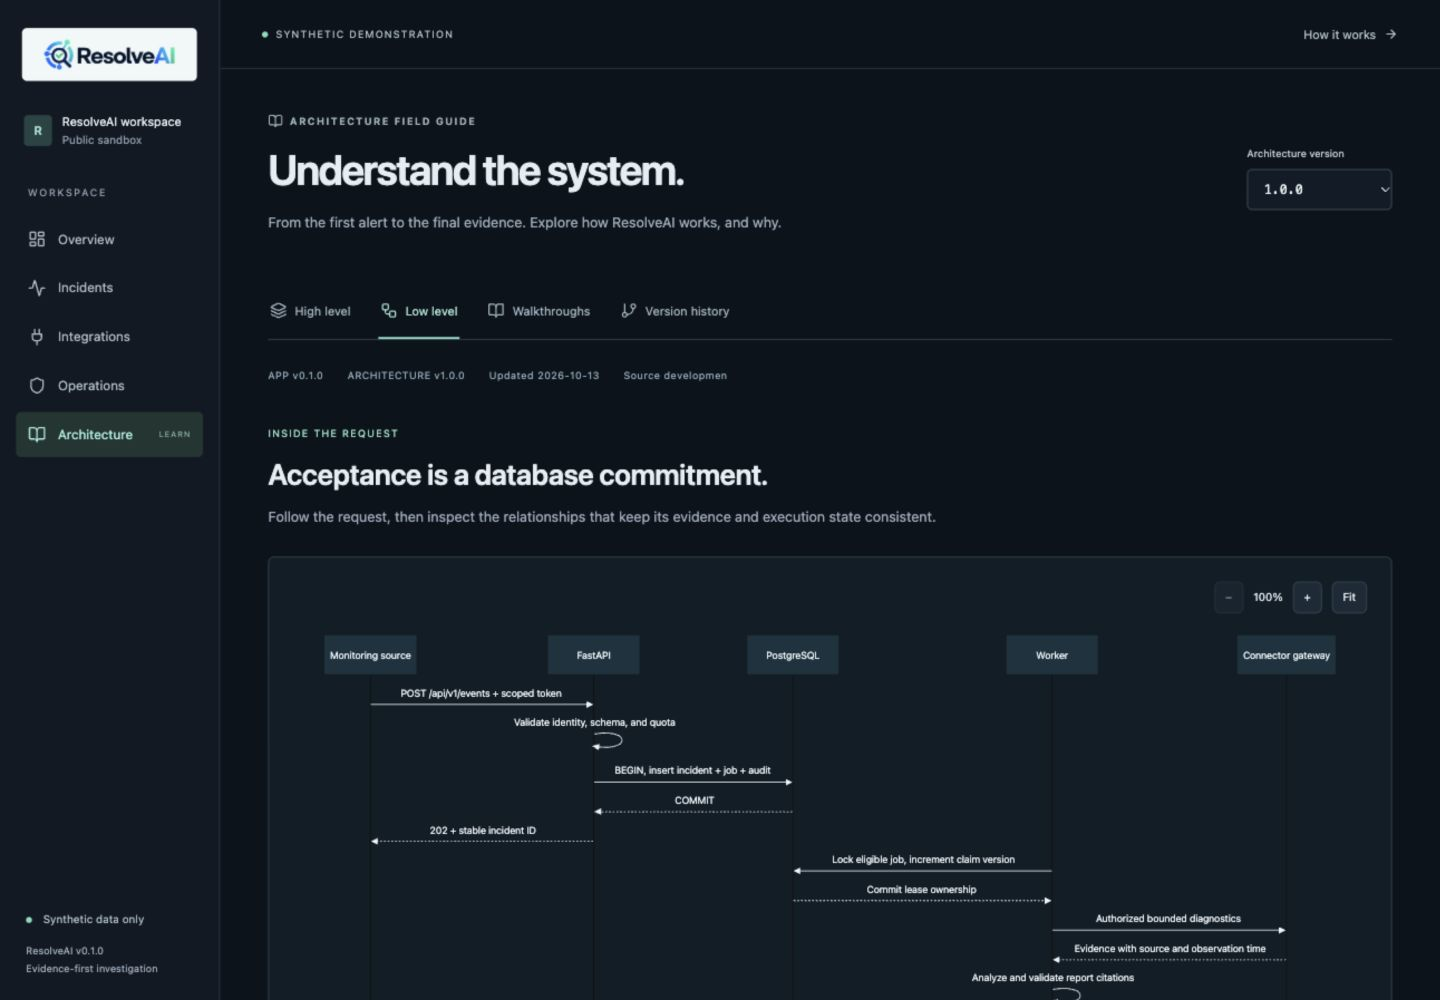
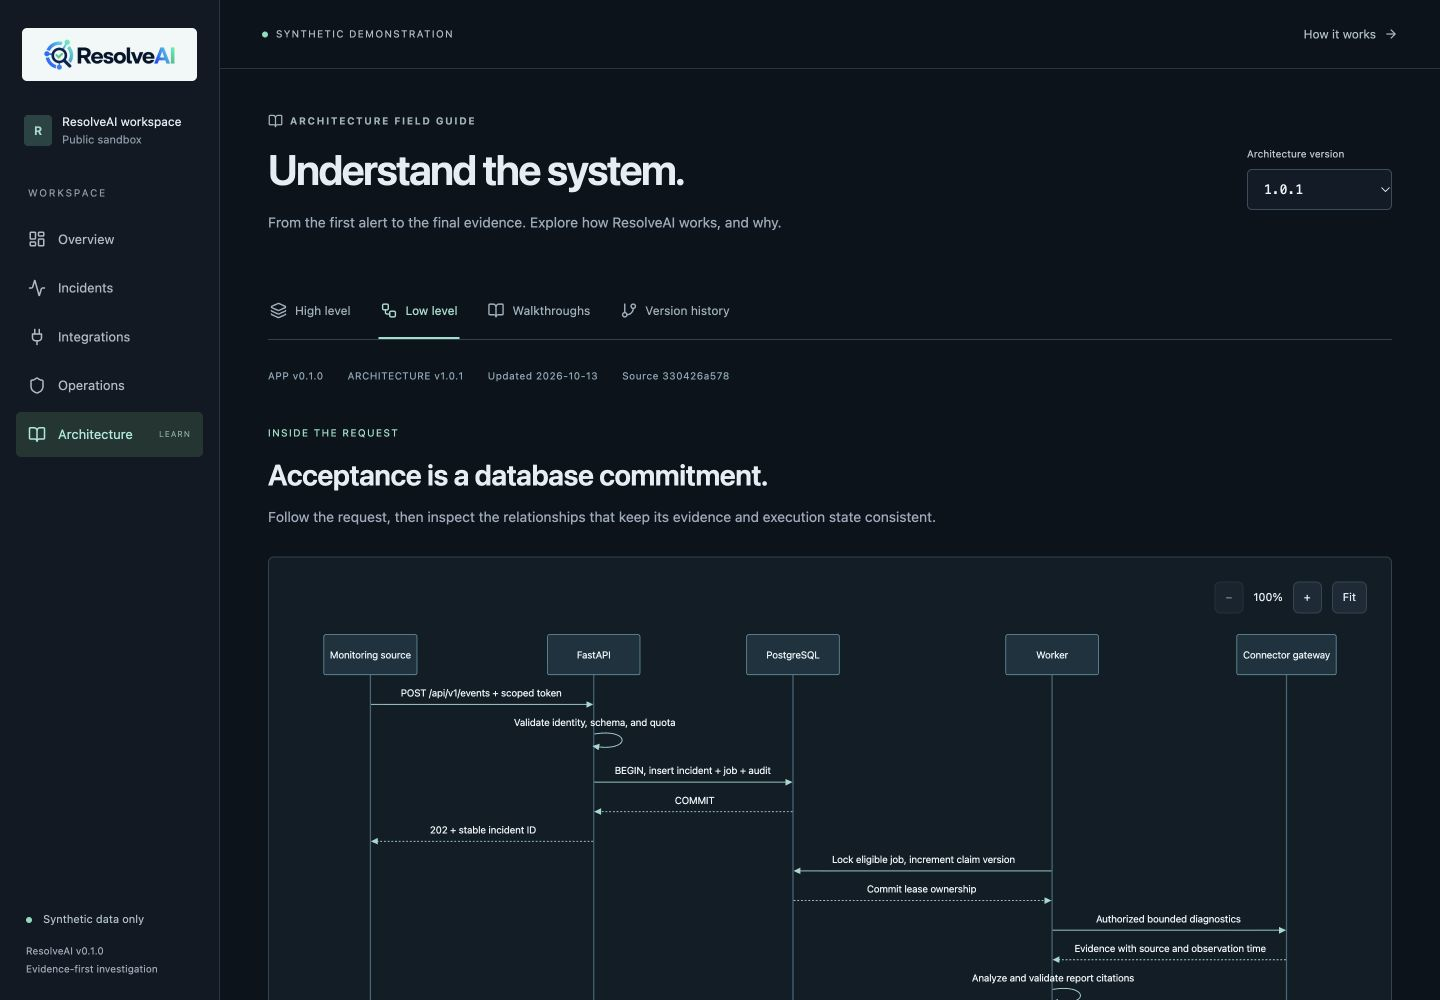
Record verified HTTPS deployment, recovery, and release evidence

diff --git a/docs/RELEASE_EVIDENCE.md b/docs/RELEASE_EVIDENCE.md
@@ -1,23 +1,37 @@
 # Release evidence
 
-Application candidate: **0.1.0**. Architecture snapshot: **1.0.0**. Status: **CODE COMPLETE, DEPLOYMENT BLOCKED**.
+Application: **0.1.0 public beta**. Current architecture: **1.0.1**, with **1.0.0 retained unchanged**. Outcome: **FULL SUCCESS for the synthetic public beta delivery**.
 
-The configured public domain is portfolio.gappazappa.in. **NOT DEPLOYED:** the target VPS root filesystem was at 100% usage, with approximately 29 MiB free. SSH and DNS prerequisites were present; no ResolveAI files, proxy changes, certificate requests, or services were applied to that host. A narrowly scoped disposable scanner-cache cleanup was proposed to the owner. No unrelated application, image, volume, database, or backup was removed.
+- Public demo: https://portfolio.gappazappa.in
+- Study guide: https://portfolio.gappazappa.in/architecture
+- Source repository: https://github.com/prasanthp01/resolveai
+- Deployed application source commit: `47841ee92be07a4d4dc5c9df68829ffd83f4752a`
[1 lines of base64/hex data omitted]
+- Activation: `2026-10-13T07:41:19.809255+00:00`
+- Initial hosted CI: https://github.com/prasanthp01/resolveai/actions/runs/38363333879 (passed). Final documentation commit/run and published release are recorded in the delivery manifest.
+
+## Deployment
+
+The public site serves a static export of the canonical synthetic scenario and architecture endpoints through the existing nginx proxy. No public Python API, database, worker, model credential, or live connector is deployed. This avoids adding background memory/CPU pressure to the constrained shared host. The private Compose profile was verified separately on disposable local services.
+
+An explicitly approved disposable vulnerability-database cache was removed to recover space. Approximately 1.7 GiB remained free after deployment; this does not justify adding the private stack without another capacity review. Existing application containers were not recreated. A dedicated vhost and matching future Compose mount were added; the pre-existing main proxy file was restored byte-for-byte. Existing-site response checks matched their baseline.
+
+TLS was issued for the public domain and expires 2027-01-11. The renewal timer is active, a domain-scoped reload hook is installed, and a simulated renewal passed. HTTP redirects to HTTPS. Public writes return 403, private API paths return 404, and security headers are present.
+
+The public activation was safely rolled back to the preceding synthetic export and forward again. HTTPS architecture reads returned 1.0.1 → 1.0.0 → 1.0.1. Both snapshots remain accessible, and the prior clean export is retained. Staging archive restore compared all exported files byte-for-byte. Initial macOS archive metadata was excluded from the corrected artifact; that initial attempt is outside the web root.
 
 ## Local evidence
 
-- `pytest`: 45 passed, zero failures/skips; JUnit receipt retained.
-- Ruff, mypy, TypeScript/Vite, Mermaid syntax, migration consistency, and architecture/source gates passed.
-- Real PostgreSQL 18 and Redis diagnostics passed against isolated services with restricted credentials.
-- Private Compose API → durable worker → report completed with three evidence entries and no model call.
-- Private API/worker use uid 10001. Runtime database role has no superuser, createdb or createrole privilege.
-- One idle local sample: API 69.7 MiB, worker 64.68 MiB, database 38.26 MiB; CPU 0.39%, 0.61%, 0.08% respectively. These are local observations, not VPS capacity or load-test predictions.
-- Dump/restore preserved one incident, one report and three evidence rows. Test-DB outage returned 503; restart returned 200 and retained data.
-- Final dependency scans returned zero Python/frontend advisory findings; final Alpine runtime returned zero HIGH/CRITICAL Trivy findings.
-- Browser checks and genuine screenshots cover desktop/mobile, public learning flow, and private synthetic setup/report use.
+- 45 tests passed, zero failures/skips. Ruff, mypy, TypeScript/Vite, eight Mermaid diagram parses, migration consistency, source hygiene, and architecture consistency/history gates passed.
+- PostgreSQL 18 and Redis diagnostics passed against isolated services with restricted credentials.
+- Private Compose API → durable worker → report produced three evidence entries with no model call. Runtime uid is 10001; the database role has no superuser, createdb or createrole privilege.
+- One idle local sample: API 69.7 MiB, worker 64.68 MiB, database 38.26 MiB; CPU 0.39%, 0.61%, 0.08%. These are local observations, not VPS load-test predictions.
+- Dump/restore preserved one incident, one report and three evidence rows. A test-DB outage returned 503; restart returned 200 and retained data.
+- Python/frontend dependency scans returned zero findings. The final container returned zero HIGH/CRITICAL Trivy findings at scan time. Image ID is in container-scan.json.
+- Browser checks cover public scenarios, report export, replay, high/low diagrams, walkthroughs/history, version selection, private synthetic setup/report use, and six responsive widths. Screenshots are genuine captures.
 
-Exact package versions are in the lockfiles and dependency inventories. The migration is 3c57cd3d805f. Architecture metadata names the implementation commit; the final repository commit and source/archive hashes are recorded in the delivery manifest outside this repository to avoid a circular hash.
+## Limits
 
-## Not claimed
+Owner manual acceptance and live-provider evaluation are NOT RUN. No paid model call, production traffic benchmark, independent security audit, externally configured alert service, encrypted off-host private backup, or playable demo video is claimed. The recording scripts and manual walkthrough are supplied. The public deployment has no mutable user database; its source and immutable export are backed up outside the VPS. Private backup encryption, off-host destination, schedule, and alert routing remain operator configuration for a future private deployment.
 
-No verified public HTTPS deployment, released v0.1.0 tag, owner acceptance, live-provider benchmark, production workload measurement, externally configured alert service, encrypted off-host backup, or playable demo recording is claimed. The demo recording scripts and manual acceptance walkthrough are supplied.
+Receipts: deployment.json, public-smoke.json, public-recovery.json, recovery-results.json, private-compose-results.json, test-results.xml, container-scan.json, and verification-summary.json. Exact dependency versions are in lockfiles/inventories; migration revision is 3c57cd3d805f.

diff --git a/docs/TEST_REPORT.md b/docs/TEST_REPORT.md
@@ -8,7 +8,7 @@ Verification date: 2026-10-13. These are local results, not production-load or l
 | Python types | `uv run mypy app` | PASS: 15 source files |
 | Backend/security/evaluation suite | `uv run pytest -q --junitxml=docs/test-results.xml` | PASS: 45, zero failures/skips |
 | Database schema | `uv run alembic upgrade head`; `uv run alembic check` | PASS: fresh PostgreSQL 18 database, revision 3c57cd3d805f, no drift |
-| Frontend | `npm --prefix web run build` | PASS: TypeScript, all four Mermaid diagrams, production bundle |
+| Frontend | `npm --prefix web run build` | PASS: TypeScript, all eight Mermaid diagrams across two snapshots, production bundle |
 | Python advisories | `uv run pip-audit` | PASS: no known dependency findings at scan time |
 | Frontend advisories | `npm --prefix web audit` | PASS: zero findings after dependency override |
 | Container advisories | Trivy 0.69.3 image scan, HIGH/CRITICAL | PASS: zero findings in the final Alpine-based runtime |
@@ -17,7 +17,7 @@ Verification date: 2026-10-13. These are local results, not production-load or l
 | Private Compose | Dedicated QA project, real HTTP API and worker, restricted runtime role | PASS: bootstrap, application/environment/source, 202 acceptance, report, duplicate, revocation |
 | Backup/recovery | Custom-format dump → fresh disposable DB; stop/restart only test DB | PASS: 1 incident, 1 report, 3 evidence rows restored; outage 503, recovery 200, rows retained |
 | Browser | Codex browser automation against actual localhost app | PASS: public overview/scenarios/replay/report/export and architecture views; private login/setup/note flow; responsive checks |
-| Public VPS/TLS | Target shared VPS | BLOCKED: root filesystem full; deployment not attempted |
+| Public VPS/TLS | External HTTPS/API/browser checks | PASS: 22 public checks, preserved existing-site responses, valid TLS and renewal dry run |
 | Live model evaluation | External provider | NOT RUN: no live provider enabled or billed |
 | Extended load/soak, external penetration test | Not executed | NOT RUN; no reliability or independent-audit claim |
 
@@ -28,3 +28,5 @@ A recovery drill initially found that connection refusal returned 500. Readiness
 Browser checks covered widths 360, 390, 768, 1024, 1440 and 1920 with no overview document overflow. Report and architecture views were inspected at mobile and desktop sizes. This is browser smoke coverage, not a WCAG certification. Mermaid is lazily loaded; its large vendor chunks remain a build warning and a performance follow-up.
 
 Receipts: [JUnit](test-results.xml), [summary](verification-summary.json), [container scan summary](container-scan.json), [recovery](recovery-results.json), [private Compose](private-compose-results.json), and genuine screenshots in assets/. Full private execution logs and database dumps are excluded from publication.
+
+The public artifact was restored byte-for-byte in a disposable directory. Atomic symlink switching was rehearsed there, then verified against the actual public service: architecture 1.0.1 → 1.0.0 → 1.0.1, with successful HTTPS reads at each step. See [deployment receipt](deployment.json), [public smoke](public-smoke.json), and [staging recovery](public-recovery.json). Both architecture records remain available; the 1.0.0 file was not edited.

diff --git a/docs/RELEASE_GATES.md b/docs/RELEASE_GATES.md
@@ -1,6 +1,6 @@
 # Release gates
 
-Current outcome: **CODE COMPLETE, DEPLOYMENT BLOCKED**. The source candidate can be reviewed and installed locally. It is not a verified public release.
+Current outcome: **FULL SUCCESS for the synthetic public beta delivery**. Local/private verification and public HTTPS deployment passed. Owner acceptance and optional live-provider validation remain separate, unperformed activities.
 
 | Gate | Status | Evidence / consequence |
 |---|---|---|
@@ -11,11 +11,11 @@ Current outcome: **CODE COMPLETE, DEPLOYMENT BLOCKED**. The source candidate can
 | Dependency and high/critical container findings | PASS | No findings at recorded scan time; reassess future changes |
 | Versioned high/low architecture and study guide | PASS | /architecture, canonical snapshots, reference/fingerprint and diagram gates |
 | Migration, persistence, backup/restore | PASS | Fresh schema and disposable recovery receipts |
-| Public VPS capacity | BLOCKED | Root disk at 100%; owner decision needed for a specific disposable cache cleanup |
-| Public HTTPS/end-to-end smoke | NOT RUN | No deployment while capacity is blocked |
-| GitHub hosted CI | NOT RUN | Local equivalent checks passed; hosted result tracked separately after publication |
+| Public VPS capacity | PASS for static profile | Only the explicitly approved disposable scanner cache was removed; approximately 1.7 GiB remained free |
+| Public HTTPS/end-to-end smoke | PASS | 22 checks, browser review, existing-site comparison, valid certificate and renewal dry run |
+| GitHub hosted CI | PASS | Hosted verification succeeded; final run URL is recorded in the delivery manifest |
 | Live provider behavior | NOT RUN | Optional adapter tested with simulated failure/budget cases only |
 | Owner manual acceptance | NOT RUN | UAT_CHECKLIST.md is ready for owner review |
-| v0.1.0 release tag | BLOCKED | Mandatory deployment smoke gate has not passed |
+| v0.1.0 beta release | ELIGIBLE | All mandatory delivery gates passed; actual publication is recorded in release evidence/manifest |
 
 No mandatory failing test was suppressed. Do not convert NOT RUN or BLOCKED to PASS without new evidence. Source publication is separate from a verified release tag. P1/P2 omissions are listed in ROADMAP.md.

diff --git a/docs/DEPLOYMENT.md b/docs/DEPLOYMENT.md
@@ -34,3 +34,9 @@ Do not start this stack alongside a public instance without verifying available 
 ## Release preflight
 
 Inspect existing services, disk, memory, DNS, certificates, and proxy ownership. Preserve application data and unrelated services. Do not prune unknown volumes or remove unrelated data to make room. Record source SHA, image digest when applicable, migration version, artifact hash, verification time, and actual URL. Deployment blocked by host conditions must remain explicitly NOT DEPLOYED.
+
+## Shared-proxy integration used for this release
+
+The live proxy had a pre-existing stale individual-file bind mount. A new dedicated ResolveAI configuration file was loaded into its writable configuration directory and a matching read-only file mount was added to the canonical Compose definition for future recreation. This avoided restarting unrelated applications. On subsequent configuration changes, update the host ResolveAI file and the current container copy if the mount has not yet taken effect; validate with nginx -t, then gracefully reload. Do not recreate the proxy merely to deploy new static assets. Release changes use the dedicated current symlink.
+
+The certificate-renewal hook is limited to the ResolveAI domain and validates the proxy before reload. The renewal dry run passed. Backups of the original proxy and Compose files are retained privately on the host. Deployment receipts intentionally omit unrelated service names and internal paths.

diff --git a/docs/OPERATIONS.md b/docs/OPERATIONS.md
@@ -31,3 +31,7 @@ To verify recovery, create a new disposable database, restore with pg_restore --
 Public static rollback switches the release symlink to a preserved prior export and reloads only when configuration changed. Container rollback uses a previously verified image digest. Database changes must be backward-compatible or use an explicitly reviewed migration plan; never blindly downgrade a data-destructive migration. The initial schema downgrade drops data and is suitable only for disposable test environments.
 
 Known limitations: no certified tamper-proof audit storage, no off-host backup destination selected, no production load/soak guarantee, and no externally configured alerting service. Host disk and existing workloads must be healthy before deployment.
+
+## Public deployment record
+
+The current deployment uses the static profile with automatic certificate renewal. Export archives and source are retained outside the VPS; no mutable public user state exists. A release backup is created at each deployment. The safe rollback/forward drill passed over HTTPS. Private operational backup schedules and off-host encryption must be configured when deploying a private database.

diff --git a/README.md b/README.md
@@ -4,6 +4,8 @@
 
 ResolveAI accepts scoped alerts, gathers restricted diagnostic evidence, and produces traceable reports for human review. It is a single-tenant self-hosted public beta. The public demo uses synthetic data and deterministic analysis; it performs no production remediation or paid inference.
 
+[Open the synthetic demo](https://portfolio.gappazappa.in) · [Study the architecture](https://portfolio.gappazappa.in/architecture)
+
 Explore four scenarios: PostgreSQL connection pressure, a release regression, Redis pressure, and upstream rate limiting. The `/architecture` page explains the actual high- and low-level design with diagrams, code references, walkthroughs, and retained versions.
 
 ![Synthetic ResolveAI overview](docs/assets/overview-desktop.png)

diff --git a/CHANGELOG.md b/CHANGELOG.md
@@ -1,6 +1,6 @@
 # Changelog
 
-## 0.1.0 — initial public beta candidate
+## 0.1.0 — initial public beta
 
 - Preserved and extended the supplied FastAPI starter.
 - Added authenticated scoped ingestion, signed webhooks, durable jobs, restricted diagnostics, reports, and a synthetic UI.
@@ -8,3 +8,8 @@
 - Added isolated integration/security/evaluation tests, deployment profiles, recovery tooling, and engineering documentation.
 
 Release/publication status is recorded in docs/RELEASE_EVIDENCE.md; this changelog alone does not establish a published release.
+
+### Architecture records
+
+- 1.0.0: initial high/low design, sequence/data diagrams, and walkthroughs.
+- 1.0.1: improved dark-theme diagram contrast; retained 1.0.0 unchanged.
